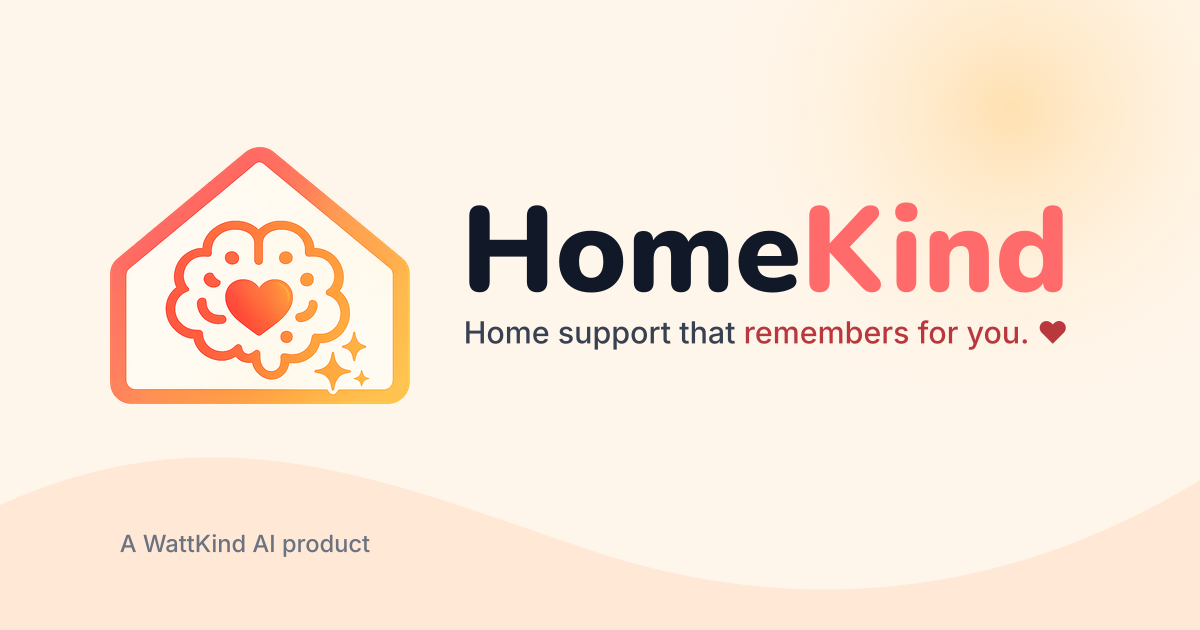
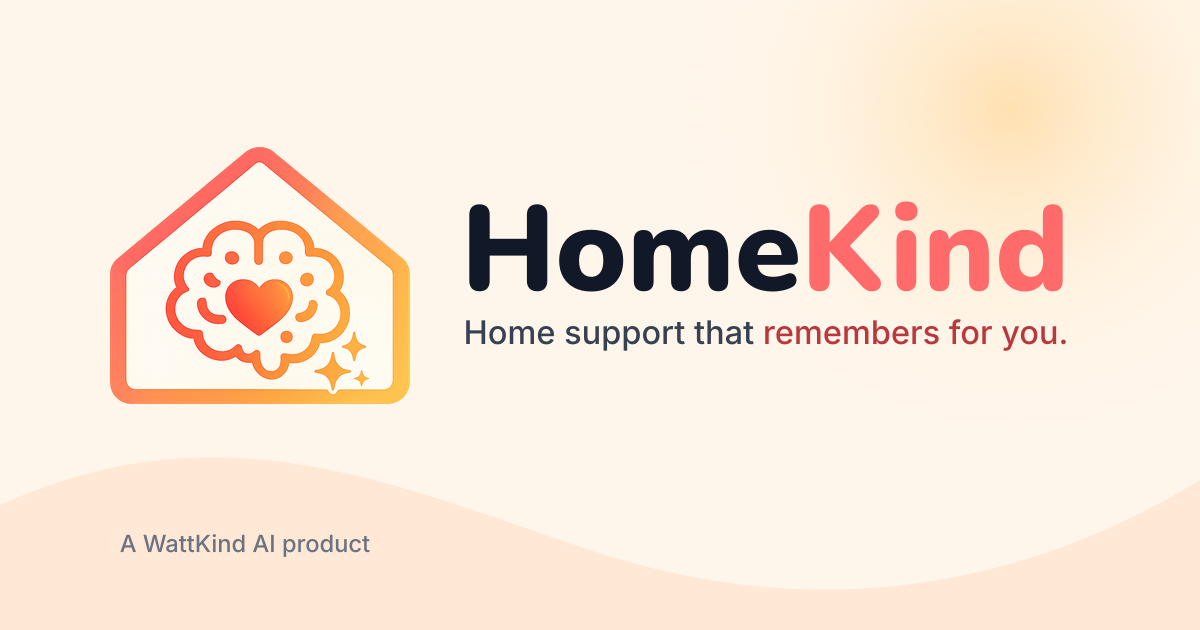
Drop the heart glyph from the HomeKind tagline
The trailing ♥ was carried over from the sibling taglines; HomeKind is not
using that styling. Removed from the outlined tagline SVG, and from every place
the string is repeated: the brand manifest, the support email signature and
docs/BRAND.md. The lockups, stacked logo and social card are regenerated from
the rebuilt type.

The family shared line quoted in docs/BRAND.md keeps its ♥ — that is WattKind
family canon, not HomeKind's to change here.

Verified: typecheck, 51 tests passing.

Claude-Session: https://claude.ai/code/session_01WfFdfSToLTWYgejDK3ZGoA

diff --git a/public/assets/brand/email-signatures/homekind-support-email-signature.html b/public/assets/brand/email-signatures/homekind-support-email-signature.html
@@ -20,7 +20,7 @@
           <span style="color:#D1D5DB">&nbsp;·&nbsp;</span>
           <a href="https://homekind.wattkind.ai/" style="font-weight:700;color:#111827;text-decoration:none">Open HomeKind</a>
         </div>
-        <div style="font-size:12px;line-height:18px;color:#FF6B6B">Home support that remembers for you. ♥</div>
+        <div style="font-size:12px;line-height:18px;color:#FF6B6B">Home support that remembers for you.</div>
         <div style="font-size:11px;line-height:17px;color:#6B7280">HomeKind by WattKind AI</div>
       </td>
     </tr>

diff --git a/scripts/lib/build-type.py b/scripts/lib/build-type.py
@@ -134,7 +134,7 @@ if __name__ == "__main__":
     )
     build(
         "homekind-tagline", "Inter-Variable.ttf",
-        "Home support that remembers for you. ♥", 500, 18,
+        "Home support that remembers for you.", 500, 18,
         head_fill=SLATE, tail_gradient=False, tail_fill=CORAL_TEXT,
         label="Home support that remembers for you.",
     )

diff --git a/docs/BRAND.md b/docs/BRAND.md
@@ -79,7 +79,7 @@ Both are correct; do not "fix" either one to match the other.
 
 ## Messaging
 
-- **Tagline:** Home support that remembers for you. ♥
+- **Tagline:** Home support that remembers for you.
 - **Byline:** A WattKind AI product
 - **Family line:** Same heart. Different focus. Always kind. ♥
 
